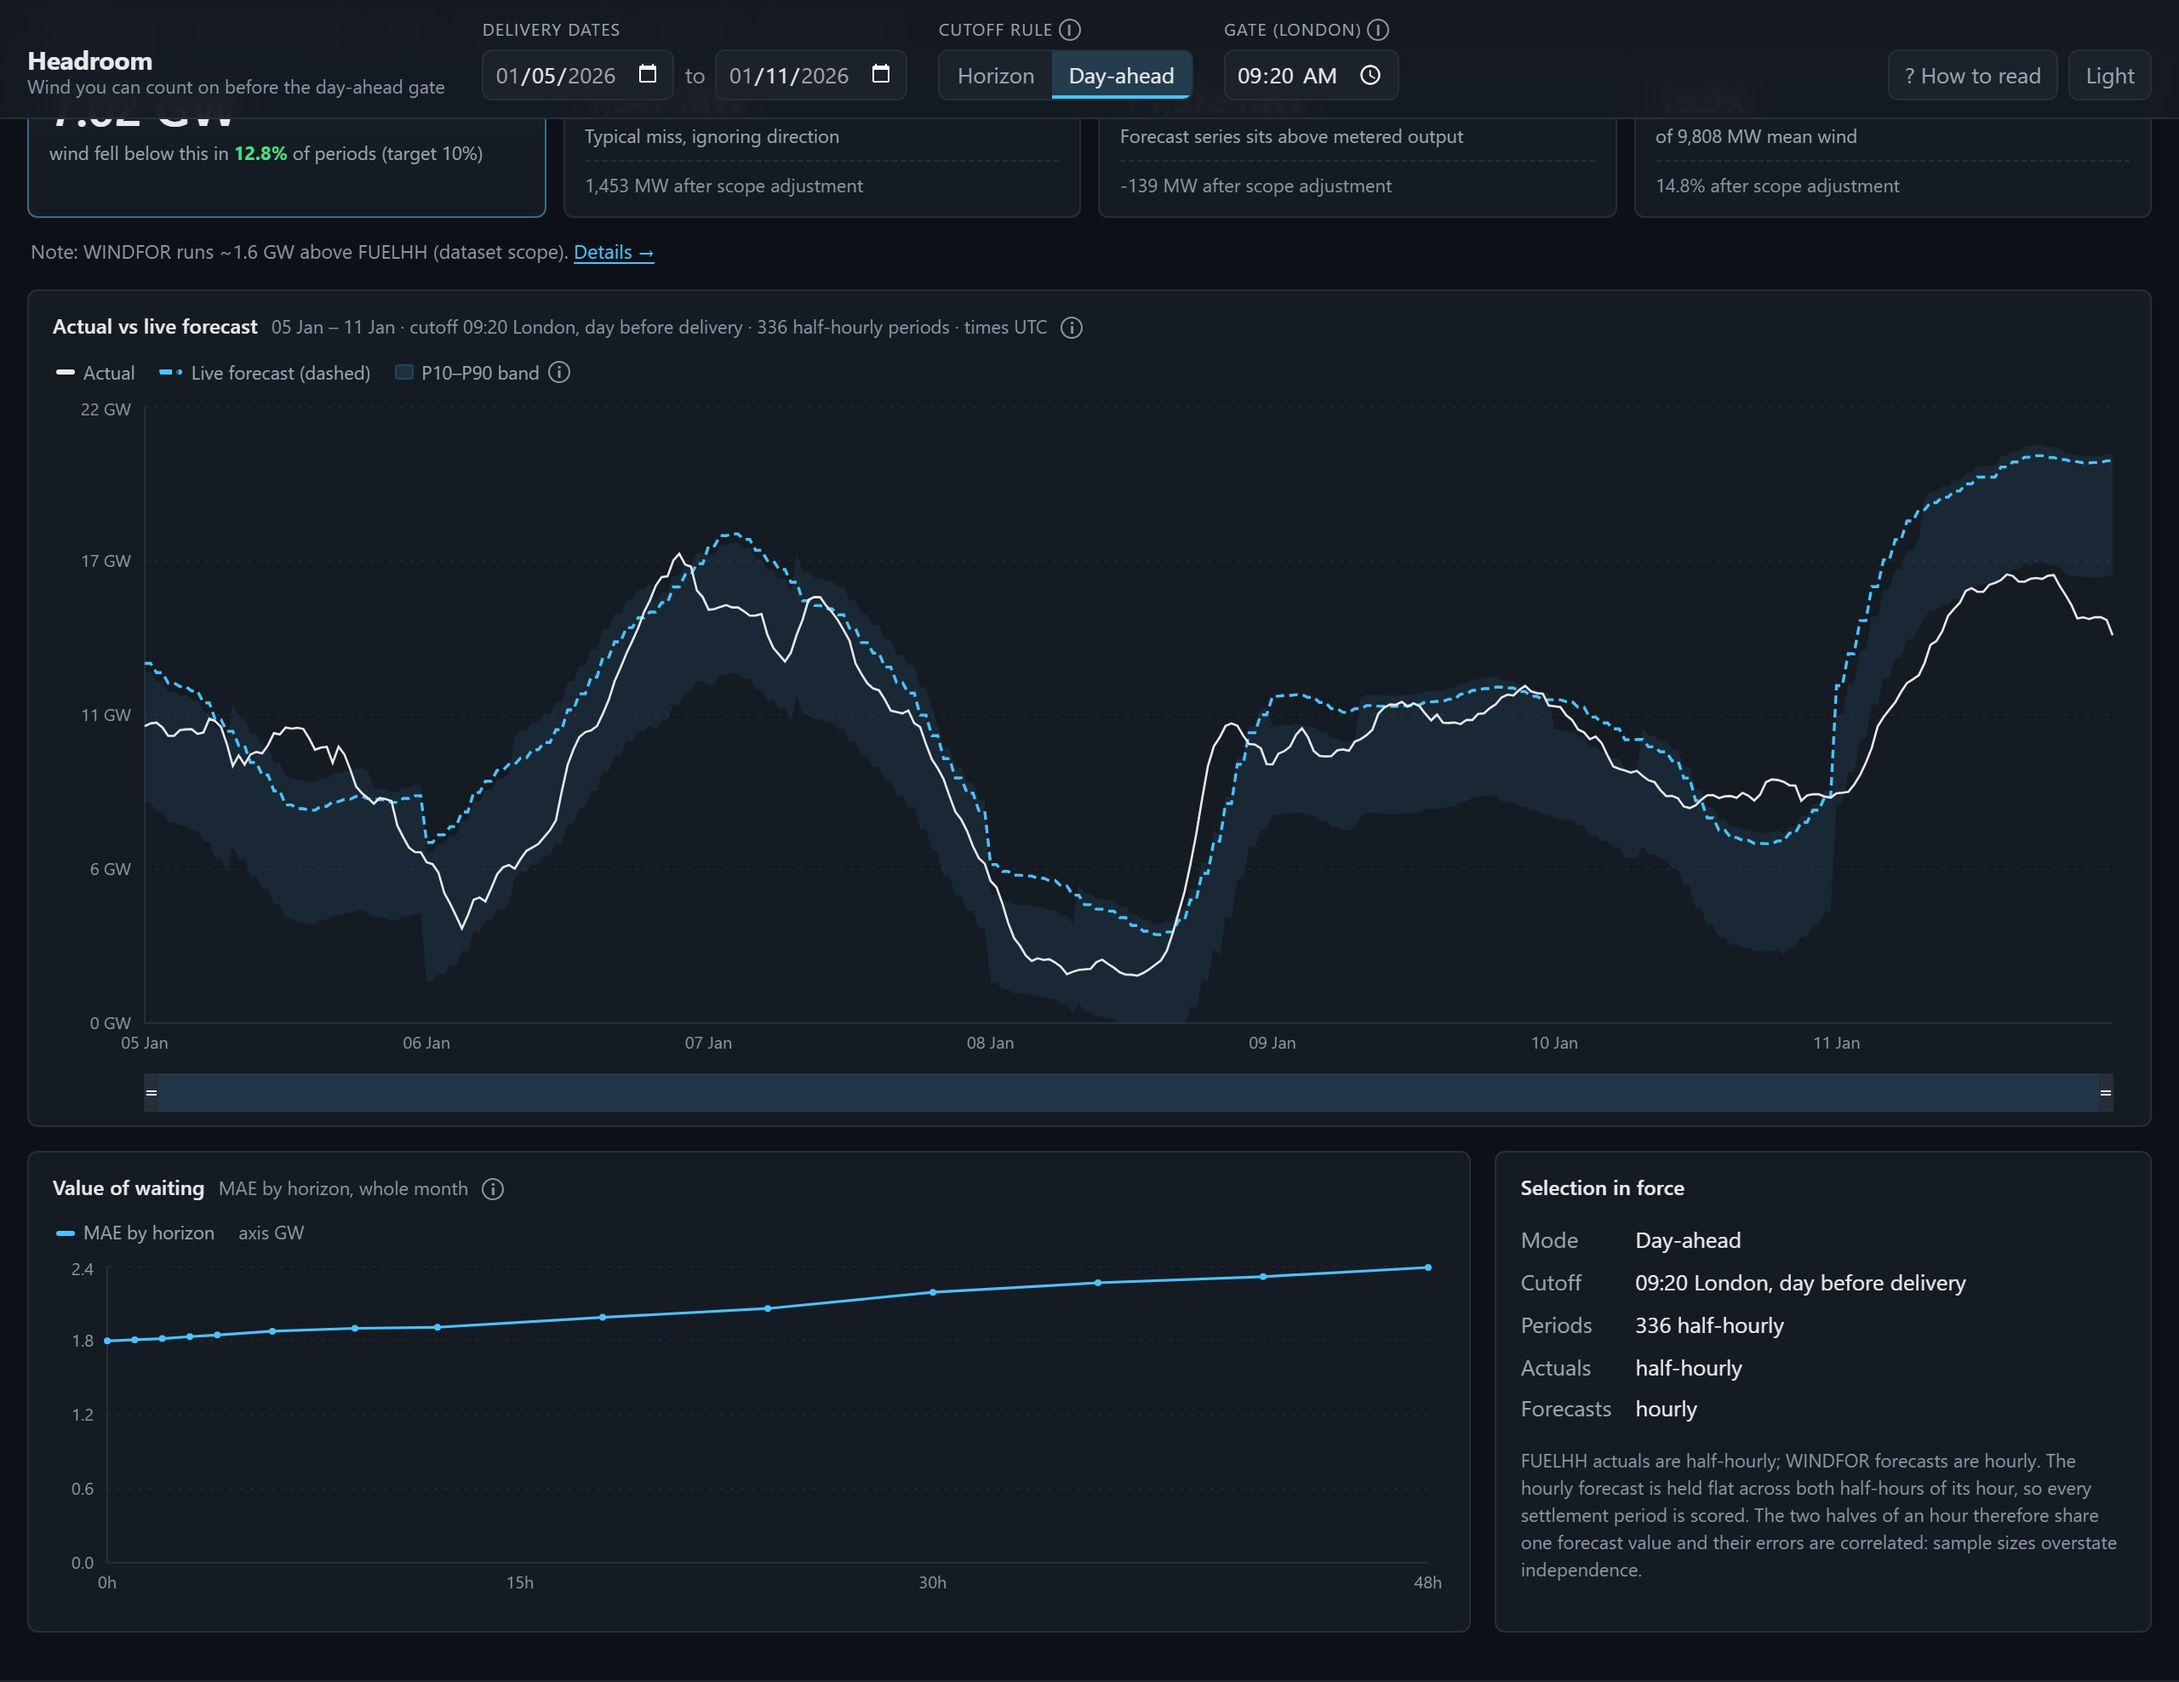
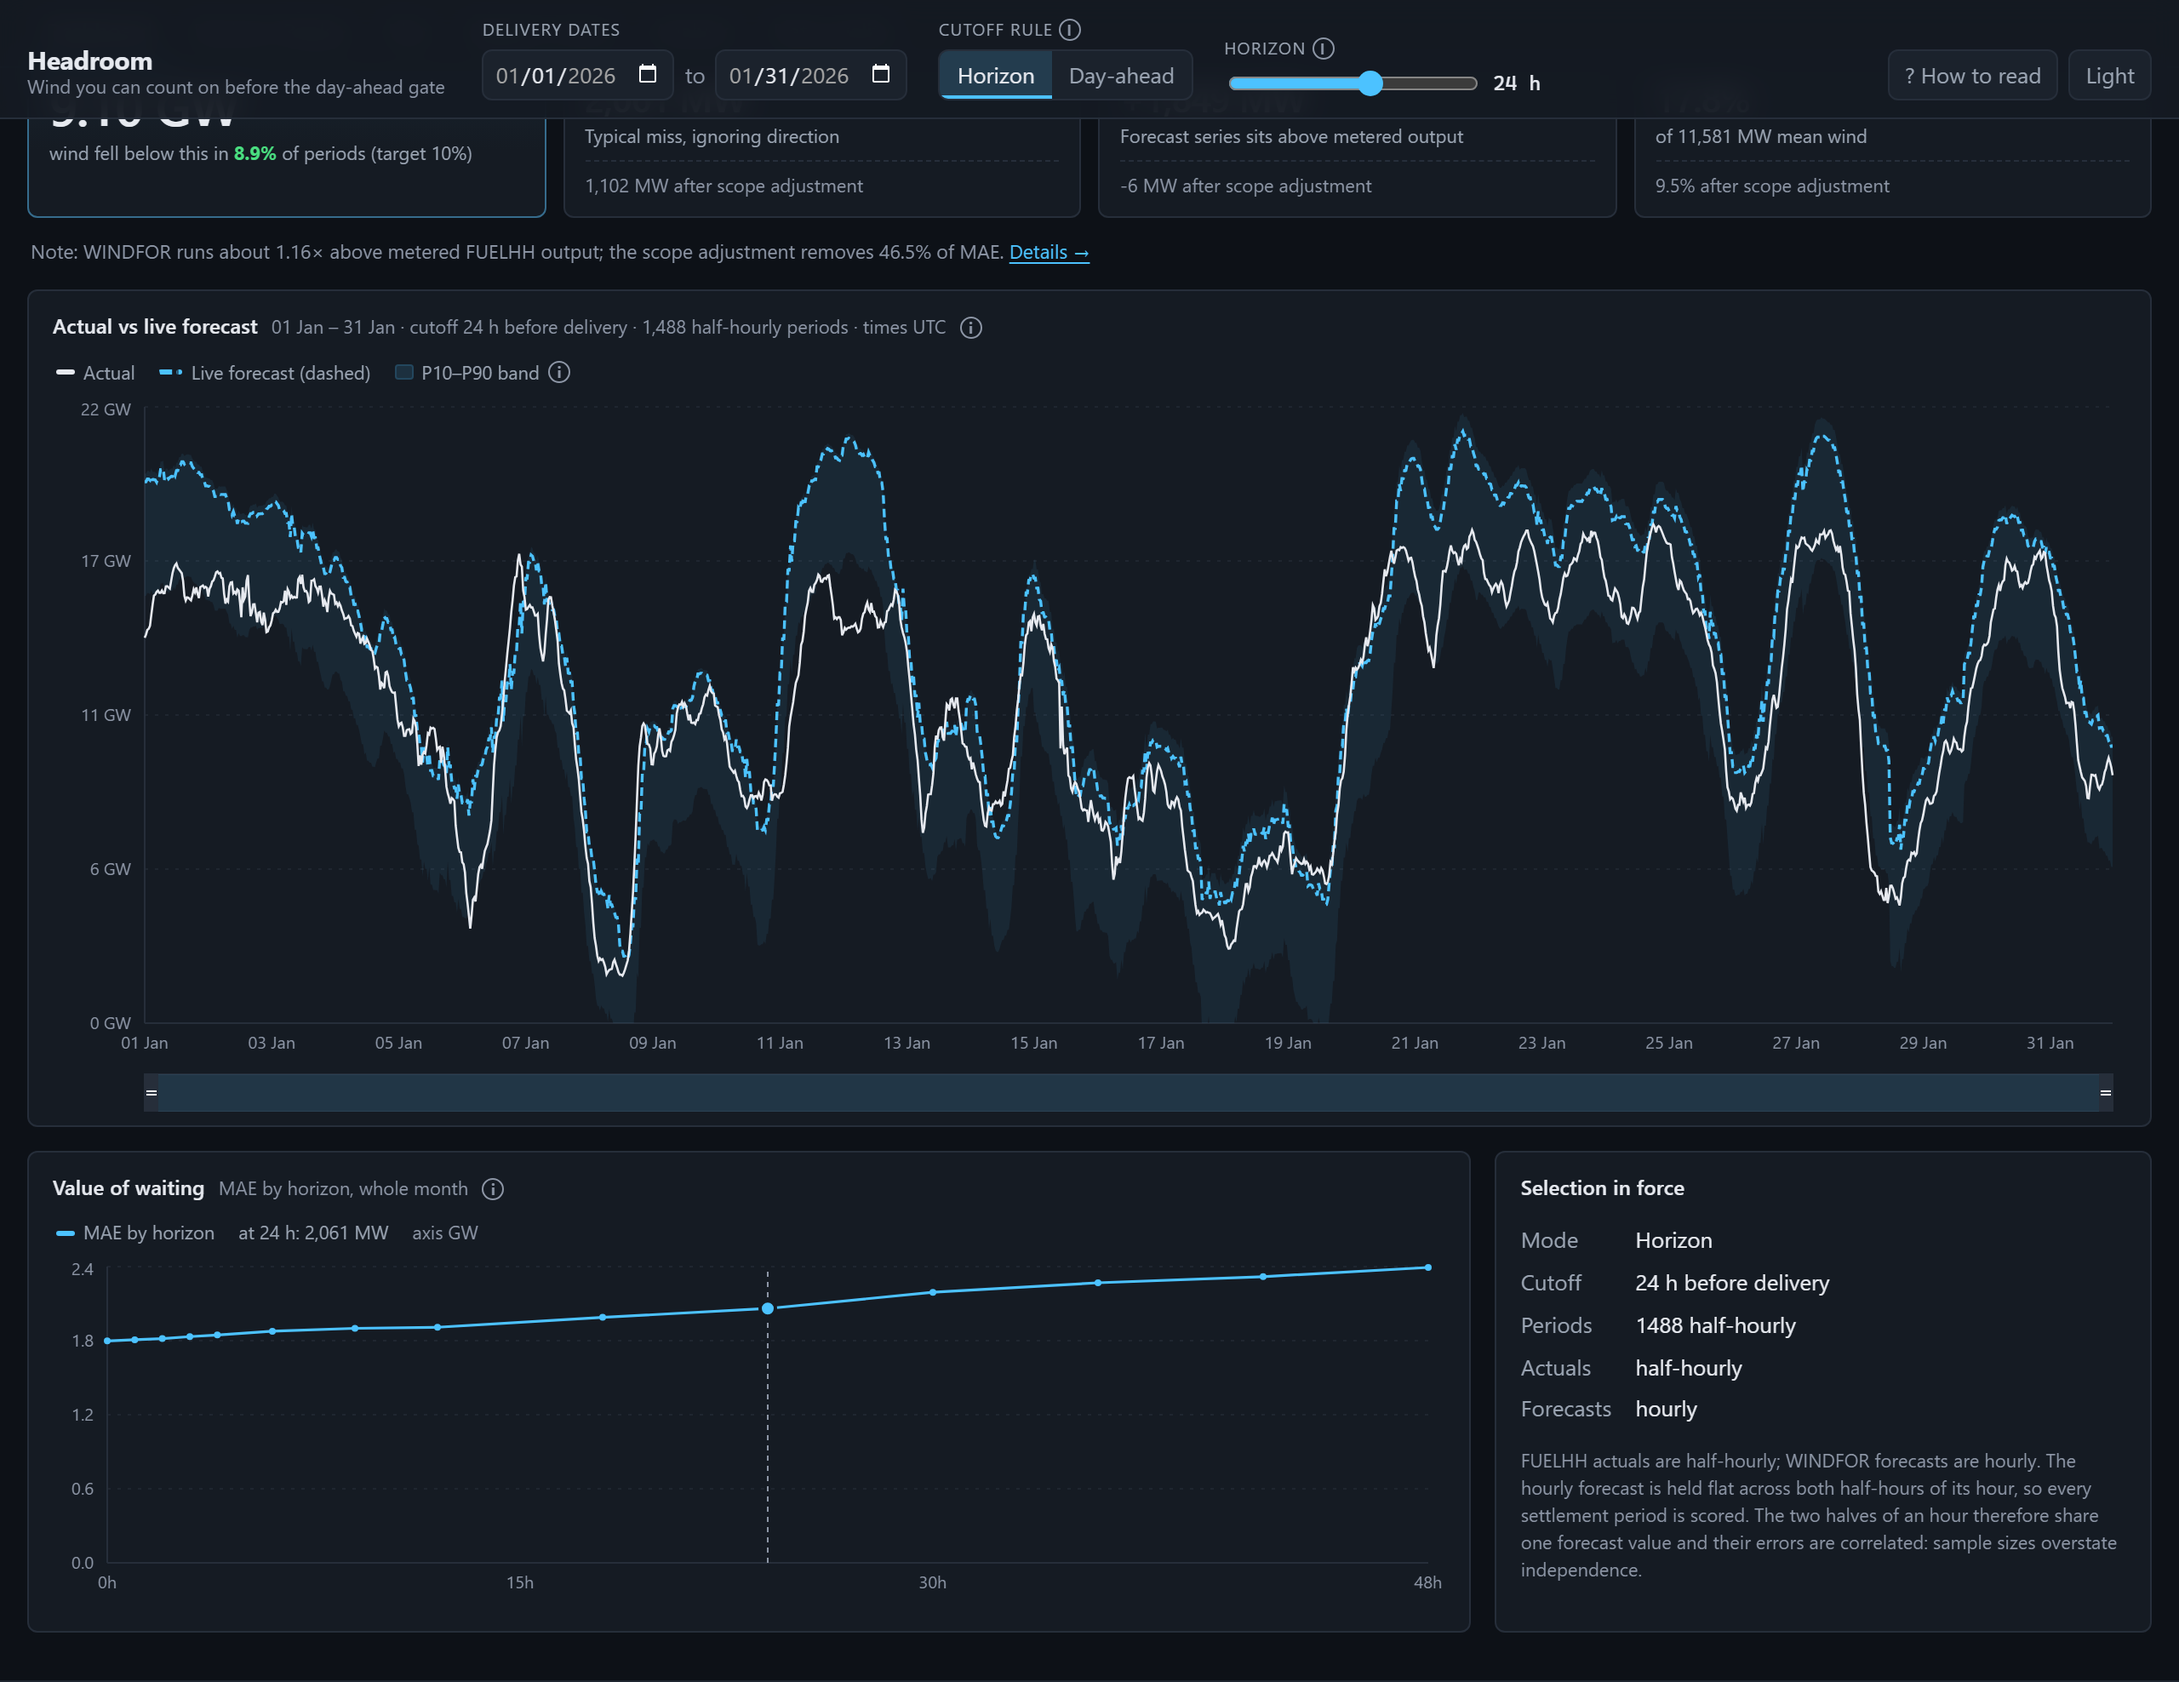
feat: open on the full month so the hero card shows month-long calibration
The default week gave the hero card a 336-period sample; the month gives 1,488
and a calibration figure worth leading with. URL params still override, and
defaults are still omitted from the URL.

diff --git a/frontend/src/App.jsx b/frontend/src/App.jsx
@@ -15,8 +15,11 @@ import Quality from './pages/Quality.jsx'
 
 const DEFAULTS = {
   tab: 'dashboard',
-  start: '2026-01-05',
-  end: '2026-01-11',
+  // The whole month: the hero card then opens on the full-month calibration
+  // rather than one week's, which is the figure worth leading with. URL params
+  // still override, and defaults stay out of the URL so shared links are short.
+  start: '2026-01-01',
+  end: '2026-01-31',
   mode: 'horizon',
   horizon: 24,
   cutoff: '09:20',
